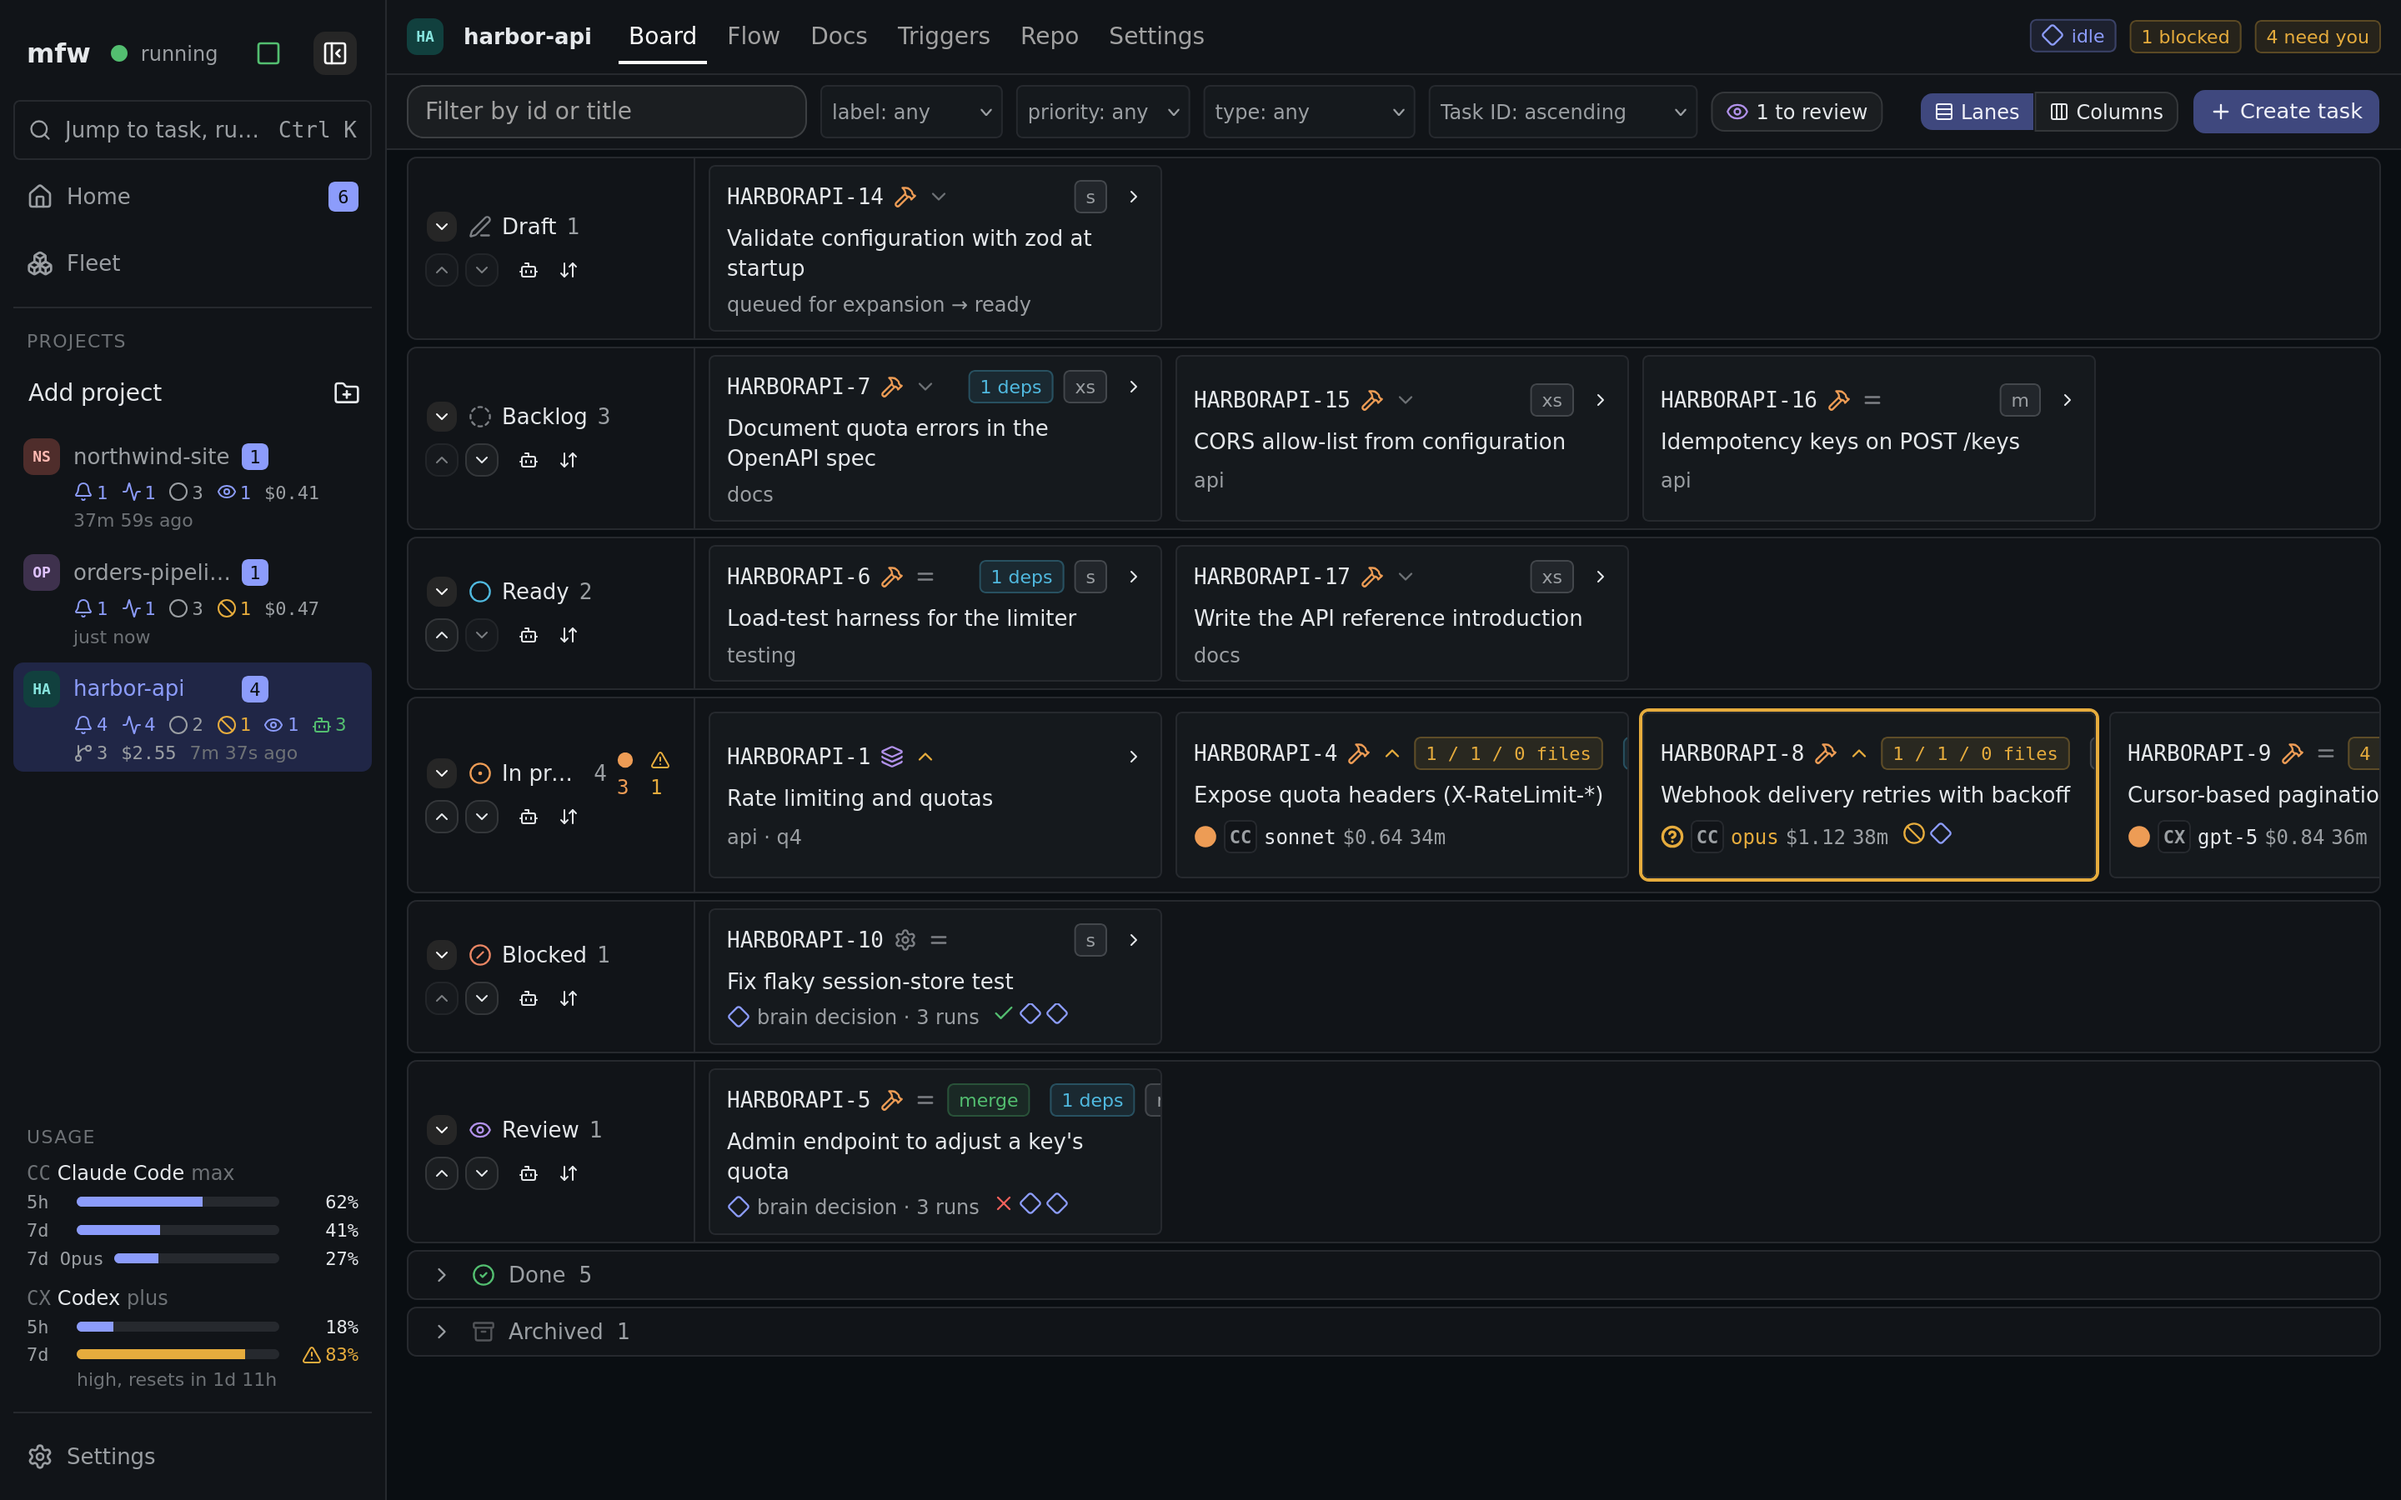
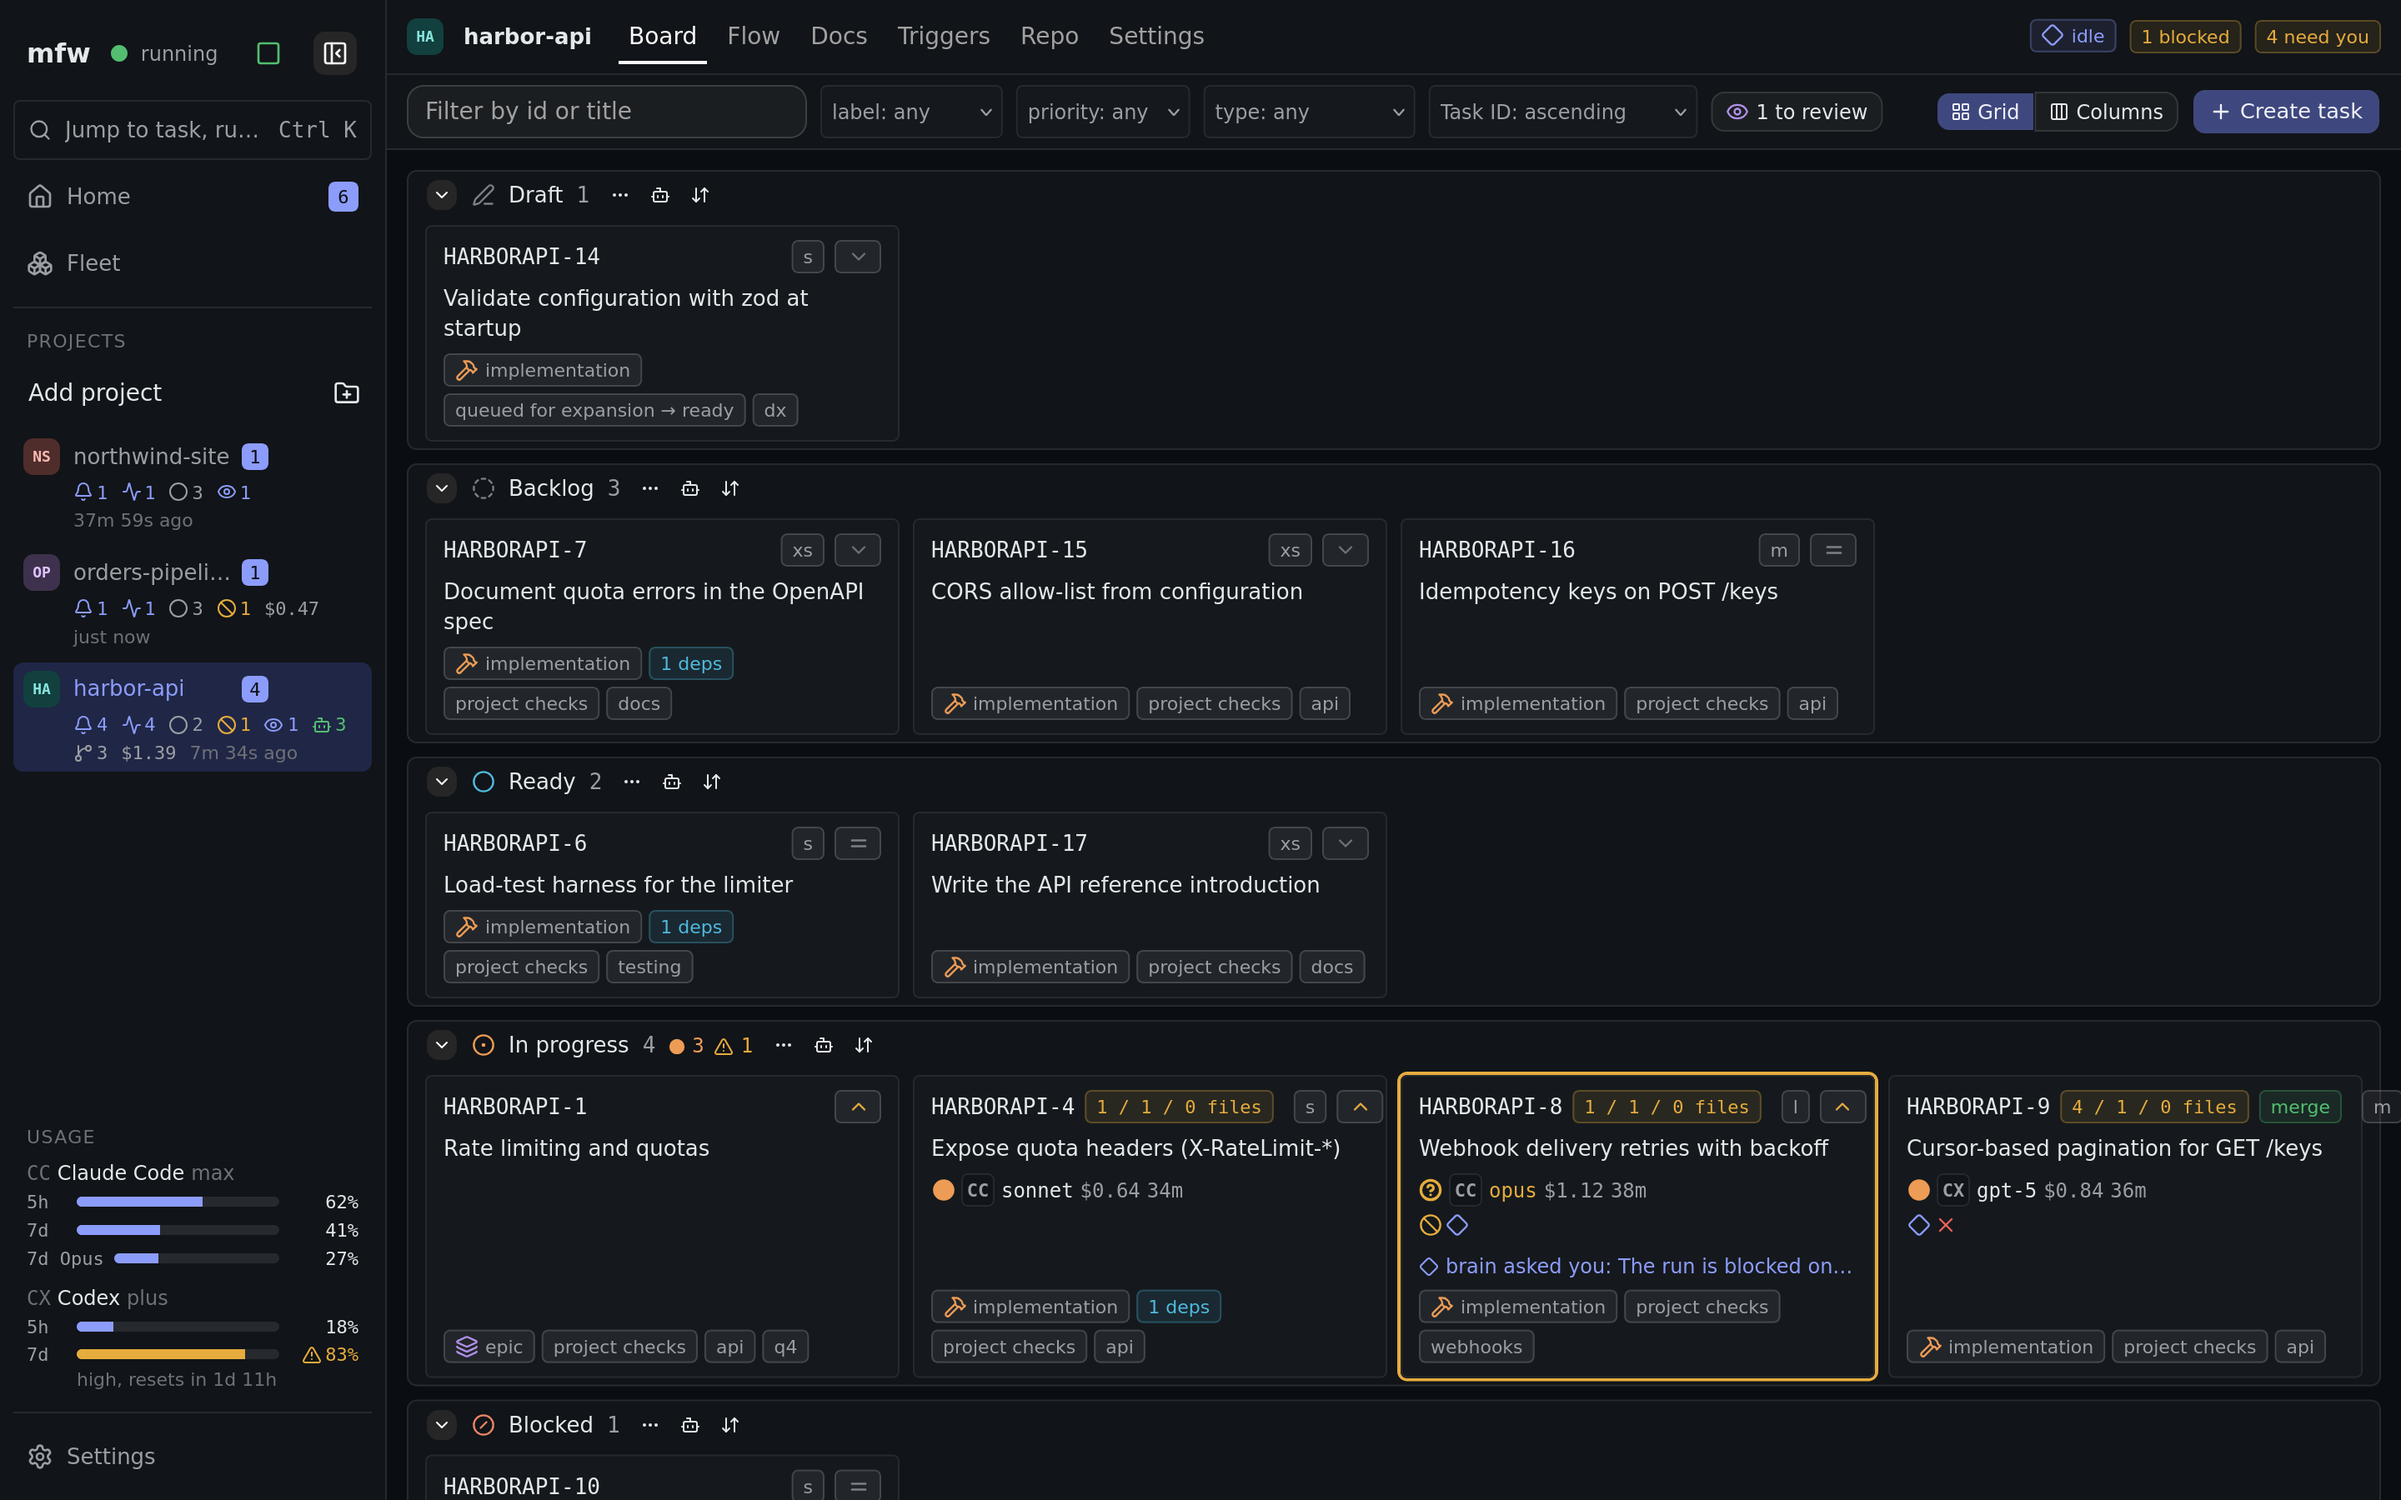
mfw: refresh the screenshots and describe the grid board

diff --git a/index.html b/index.html
@@ -94,7 +94,7 @@
               <div class="project-details">
                 <div class="project-gallery" id="mfw-gallery">
                   <label for="lb-mfw-1"><img src="/projects/mfw/home-thumb.webp" width="576" height="360" alt="mfw home: what needs you, and agents live across projects" loading="lazy" decoding="async"></label>
-                  <label for="lb-mfw-2"><img src="/projects/mfw/board-thumb.webp" width="576" height="360" alt="mfw board as lanes, one status per lane" loading="lazy" decoding="async"></label>
+                  <label for="lb-mfw-2"><img src="/projects/mfw/board-thumb.webp" width="576" height="360" alt="mfw board as a grid of task cards, one section per status" loading="lazy" decoding="async"></label>
                   <label for="lb-mfw-3"><img src="/projects/mfw/board-inspector-thumb.webp" width="576" height="360" alt="mfw task open in the inspector next to the board" loading="lazy" decoding="async"></label>
                   <label for="lb-mfw-4"><img src="/projects/mfw/flow-thumb.webp" width="576" height="360" alt="mfw flow: the task tree and run timeline with the brain on top" loading="lazy" decoding="async"></label>
                   <label for="lb-mfw-5"><img src="/projects/mfw/fleet-thumb.webp" width="576" height="360" alt="mfw fleet: hosts, subscriptions, harnesses and budgets" loading="lazy" decoding="async"></label>
@@ -104,12 +104,12 @@
                   <li><strong>Board (<code>mfwb</code>):</strong> a CLI and library that keeps project work as plain markdown files in your repo. Custom document types, dependencies checked for cycles, lock-safe claiming for parallel agents.</li>
                   <li><strong>Orchestration:</strong> a service that runs a fleet of agents across projects. A per-project brain plans work, picks the harness and model, runs parallel or competing attempts, and settles results, with every decision audited and overridable.</li>
                   <li><strong>Fleet:</strong> Claude Code, Codex CLI and others in isolated git worktrees, locally or on remote hosts. Verified before an autonomous merge, within budgets, rerouted when a subscription runs out.</li>
-                  <li><strong>UI:</strong> a local web app: lane board, flow view, inspector, docs and repo browsers, fleet usage and spend. Works on a phone.</li>
+                  <li><strong>UI:</strong> a local web app: grid board, flow view, inspector, docs and repo browsers, fleet usage and spend. Works on a phone.</li>
                   <li>Also: host resource coordinator, RunPod and OpenRouter providers, triggers, MCP server.</li>
                 </ul>
 <form class="lightboxes">
                 <input type="radio" name="lb-mfw" id="lb-mfw-1" class="lb-radio" aria-label="mfw home: what needs you, and agents live across projects"><div class="lightbox" id="lightbox-mfw-1"><button type="reset" class="lb-close" aria-label="Close"></button><img src="/projects/mfw/home.webp" width="2880" height="1800" alt="mfw home: what needs you, and agents live across projects" loading="lazy" decoding="async"><label class="lb-prev" for="lb-mfw-6" aria-label="Previous image">‹</label><label class="lb-next" for="lb-mfw-2" aria-label="Next image">›</label></div>
-                <input type="radio" name="lb-mfw" id="lb-mfw-2" class="lb-radio" aria-label="mfw board as lanes, one status per lane"><div class="lightbox" id="lightbox-mfw-2"><button type="reset" class="lb-close" aria-label="Close"></button><img src="/projects/mfw/board.webp" width="2880" height="1800" alt="mfw board as lanes, one status per lane" loading="lazy" decoding="async"><label class="lb-prev" for="lb-mfw-1" aria-label="Previous image">‹</label><label class="lb-next" for="lb-mfw-3" aria-label="Next image">›</label></div>
+                <input type="radio" name="lb-mfw" id="lb-mfw-2" class="lb-radio" aria-label="mfw board as a grid of task cards, one section per status"><div class="lightbox" id="lightbox-mfw-2"><button type="reset" class="lb-close" aria-label="Close"></button><img src="/projects/mfw/board.webp" width="2880" height="1800" alt="mfw board as a grid of task cards, one section per status" loading="lazy" decoding="async"><label class="lb-prev" for="lb-mfw-1" aria-label="Previous image">‹</label><label class="lb-next" for="lb-mfw-3" aria-label="Next image">›</label></div>
                 <input type="radio" name="lb-mfw" id="lb-mfw-3" class="lb-radio" aria-label="mfw task open in the inspector next to the board"><div class="lightbox" id="lightbox-mfw-3"><button type="reset" class="lb-close" aria-label="Close"></button><img src="/projects/mfw/board-inspector.webp" width="2880" height="1800" alt="mfw task open in the inspector next to the board" loading="lazy" decoding="async"><label class="lb-prev" for="lb-mfw-2" aria-label="Previous image">‹</label><label class="lb-next" for="lb-mfw-4" aria-label="Next image">›</label></div>
                 <input type="radio" name="lb-mfw" id="lb-mfw-4" class="lb-radio" aria-label="mfw flow: the task tree and run timeline with the brain on top"><div class="lightbox" id="lightbox-mfw-4"><button type="reset" class="lb-close" aria-label="Close"></button><img src="/projects/mfw/flow.webp" width="2880" height="1800" alt="mfw flow: the task tree and run timeline with the brain on top" loading="lazy" decoding="async"><label class="lb-prev" for="lb-mfw-3" aria-label="Previous image">‹</label><label class="lb-next" for="lb-mfw-5" aria-label="Next image">›</label></div>
                 <input type="radio" name="lb-mfw" id="lb-mfw-5" class="lb-radio" aria-label="mfw fleet: hosts, subscriptions, harnesses and budgets"><div class="lightbox" id="lightbox-mfw-5"><button type="reset" class="lb-close" aria-label="Close"></button><img src="/projects/mfw/fleet.webp" width="2880" height="1800" alt="mfw fleet: hosts, subscriptions, harnesses and budgets" loading="lazy" decoding="async"><label class="lb-prev" for="lb-mfw-4" aria-label="Previous image">‹</label><label class="lb-next" for="lb-mfw-6" aria-label="Next image">›</label></div>
